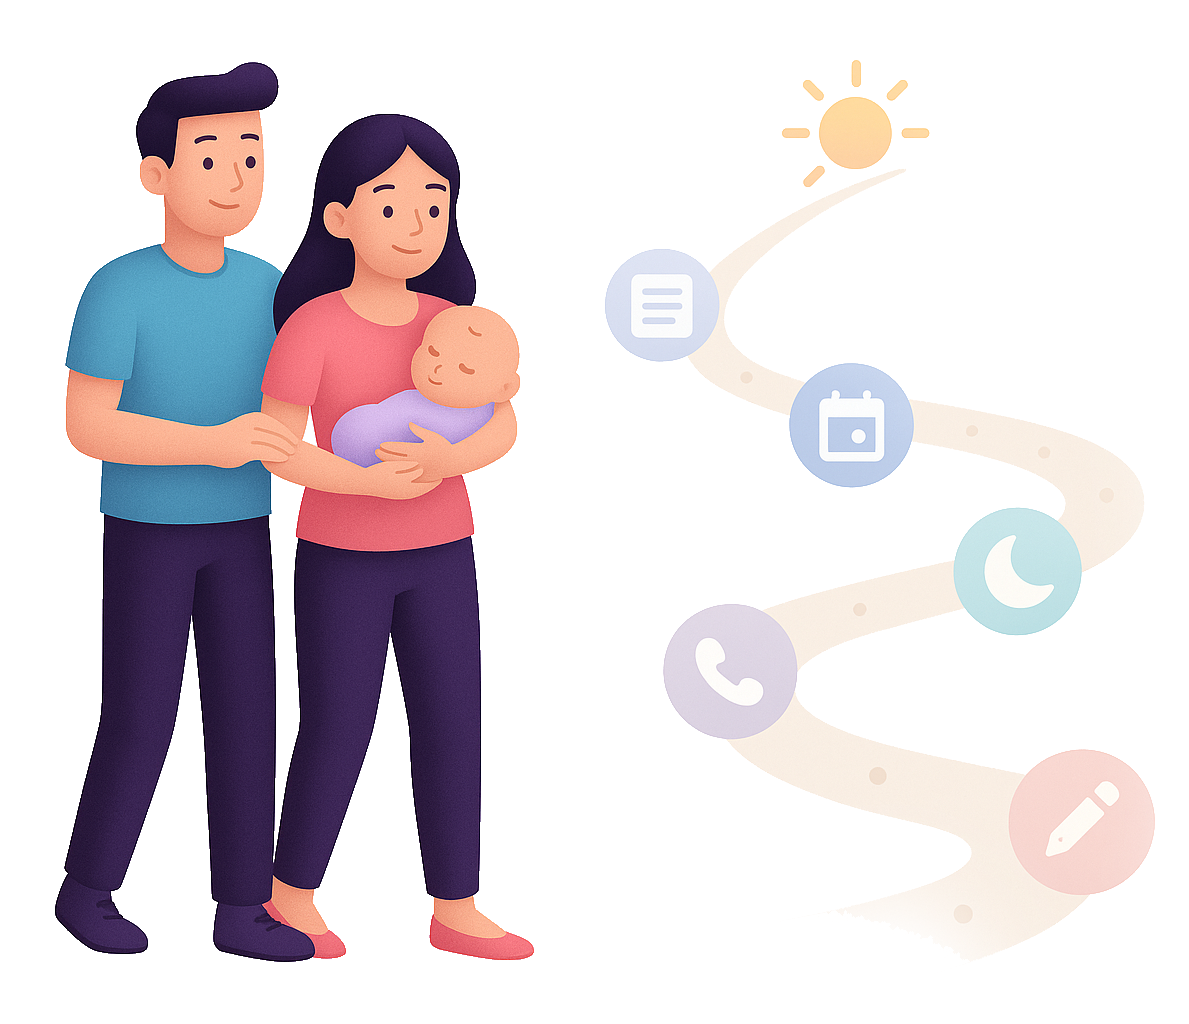
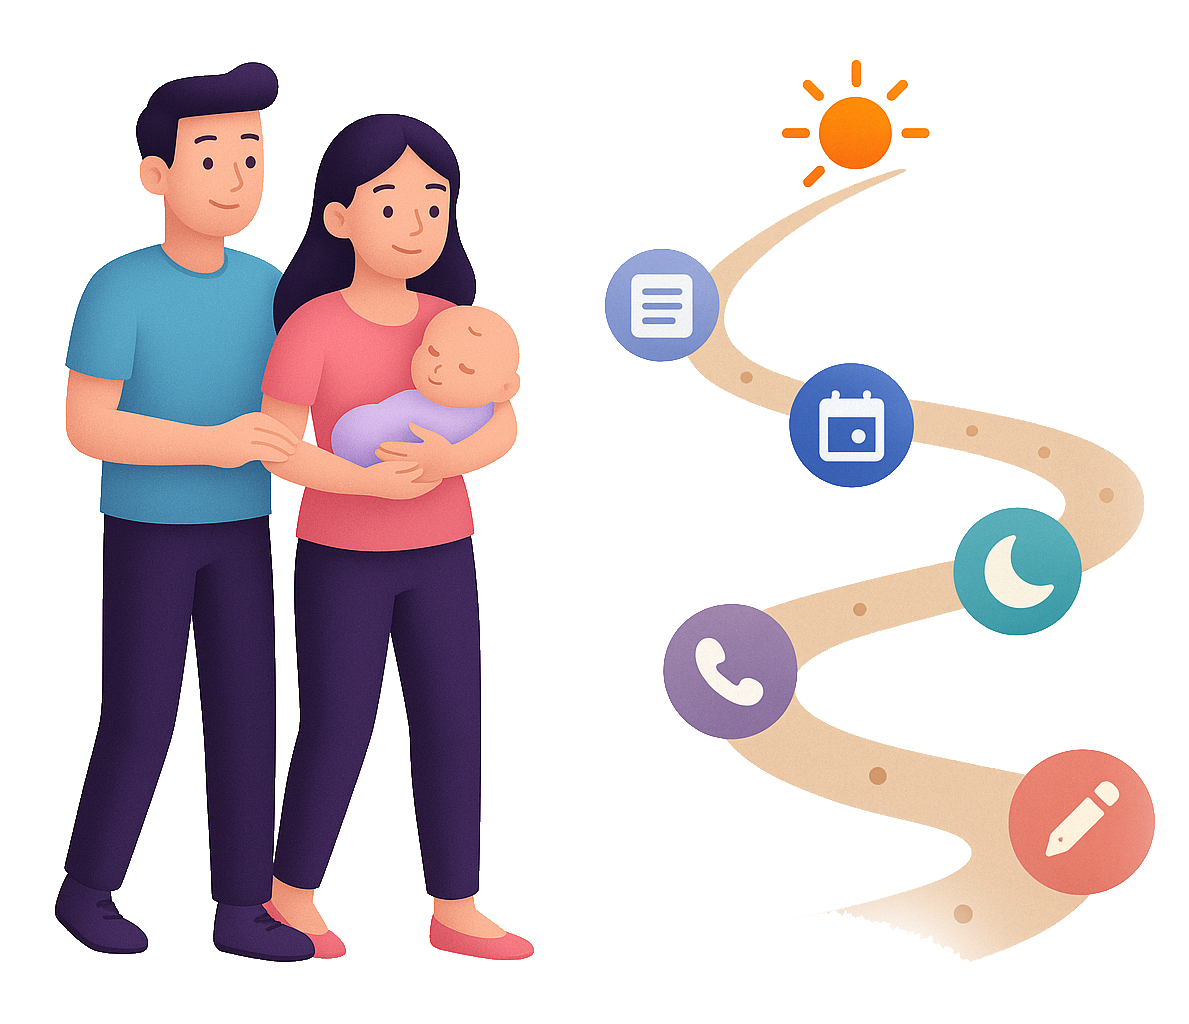
Página de detalle de servicios (VI)

Changed region(s): [[0.4979, 0.0625, 0.9958, 0.9375], [0.6535, 0.0625, 0.6846, 0.0938]]

diff --git a/src/components/blocks/footer/ViaLacteaFooter.tsx b/src/components/blocks/footer/ViaLacteaFooter.tsx
@@ -8,32 +8,16 @@ import CalendlyButton from "components/blocks/navbar/components/CalendlyButton";
 import TurnstileProtection, { validateTurnstileToken } from "components/common/TurnstileProtection";
 // CUSTOM DATA
 import { helps, learnMore } from "data/via-lactea-footer";
+import { ServiceItem } from "data/service-data";
 import { serviceList } from "data/service-data";
 
 // =================================================
-type Footer3Props = { hiddenNewsletter?: boolean };
+type Footer3Props = { hiddenNewsletter?: boolean; service?: ServiceItem };
 // =================================================
 
-export default function ViaLacteaFooter({ hiddenNewsletter }: Footer3Props) {
+export default function ViaLacteaFooter({ hiddenNewsletter, service }: Footer3Props) {
   const [submitting, setSubmitting] = useState(false);
   const [turnstileToken, setTurnstileToken] = useState<string | null>(null);
-
-  // common links section
-  const widget = (list: Link[], title: string) => {
-    return (
-      <div className="widget">
-        <h4 className="widget-title  mb-3">{title}</h4>
-        <ul className="list-unstyled text-reset mb-0">
-          {list.map(({ url, title, id }) => (
-            <li key={id}>
-              <NextLink href={url} title={title} />
-            </li>
-          ))}
-        </ul>
-      </div>
-    );
-  };
-
   const handleNewsletterSubmit = async (e: React.FormEvent) => {
     e.preventDefault();
     
@@ -98,13 +82,17 @@ export default function ViaLacteaFooter({ hiddenNewsletter }: Footer3Props) {
     }
   };
 
+  // Mapeo de color Tailwind
+  const colorMap: Record<string,string> = { purple:'grape', aqua:'aqua', green:'green', red:'red', blue:'blue', teal:'sky', yellow:'yellow', orange:'orange', violet:'violet', pink:'pink' };
+  const tailwindColor = service?.color ? (colorMap[service.color] || 'grape') : 'grape';
+
   return (
-    <footer className="bg-navbar pt-14 pb-8">
+    <footer className={`bg-white pt-14 pb-8`}>
       <div className="container pb-7">
         {!hiddenNewsletter && (
           <div
-            className="card image-wrapper bg-full bg-image bg-overlay bg-overlay-400 mb-13"
-            style={{ backgroundImage: "url(/img/photos/bg2.jpg)" }}>
+            className={`card image-wrapper mb-13 bg-${tailwindColor}`}
+          >
             <div className="card-body p-9 p-xl-11">
               <div className="row align-items-center gy-6">
                 <div className="col-lg-7">
@@ -133,15 +121,15 @@ export default function ViaLacteaFooter({ hiddenNewsletter }: Footer3Props) {
                             type="email"
                             id="newsletter-email"
                             placeholder="Email Address"
-                            className="required email form-control"
+                            className="required email form-control text-white placeholder-white"
                             required
                           />
-                          <label htmlFor="newsletter-email" className="position-absolute">
+                          <label htmlFor="newsletter-email" className="position-absolute text-white">
                             Correo Electrónico
                           </label>
                           <input
                             type="submit"
-                            className="btn btn-primary"
+                            className={`btn btn-soft-${tailwindColor}`}
                             value="Suscribirse"
                             disabled={submitting}
                           />
@@ -171,7 +159,8 @@ export default function ViaLacteaFooter({ hiddenNewsletter }: Footer3Props) {
               <CalendlyButton 
                 text="Te llamo"
                 icon="uil uil-whatsapp"
-                className="btn btn-primary rounded-pill"
+                className={`btn btn-${tailwindColor} rounded-pill`}
+                calendlyUrl={service?.calendlyUrl}
               />
             </div>
           </div>

diff --git a/src/components/blocks/process/ViaLacteaProcess.tsx b/src/components/blocks/process/ViaLacteaProcess.tsx
@@ -1,4 +1,4 @@
-import { getHighlightedServices } from "data/service-data";
+import { getHighlightedServices, ServiceItem } from "data/service-data";
 
 interface ProcessStep {
   id: number;
@@ -12,25 +12,29 @@ interface Process {
 }
 
 interface ViaLacteaProcessProps {
-  processData?: Process;
+  service: ServiceItem;
 }
 
-export default function ViaLacteaProcess({ processData }: ViaLacteaProcessProps = {}) {
-  // Si no se pasa un proceso específico, usamos el primer servicio destacado que tenga un proceso definido
-  let process = processData;
+export default function ViaLacteaProcess({ service }: ViaLacteaProcessProps) {
+  // Extraer proceso y color del servicio
+  let process = service.process;
+  let serviceColor = service.color;
   
+  // Si no existe proceso en el servicio, intentar obtener uno destacado
   if (!process) {
     const highlightedServices = getHighlightedServices();
-    const serviceWithProcess = highlightedServices.find(service => service.process);
-    
-    // Si no hay servicios destacados con proceso, no renderizamos la sección
-    if (!serviceWithProcess || !serviceWithProcess.process) return null;
-    
+    const serviceWithProcess = highlightedServices.find(s => s.process);
+    if (!serviceWithProcess?.process) return null;
     process = serviceWithProcess.process;
+    serviceColor = serviceWithProcess.color;
   }
 
+  // Map color key to Tailwind
+  const colorMap: Record<string,string> = { purple:'grape', aqua:'aqua', green:'green', red:'red', blue:'blue', teal:'sky', yellow:'yellow', orange:'orange', violet:'violet', pink:'pink' };
+  const tailwindColor = serviceColor ? (colorMap[serviceColor] || 'grape') : 'grape';
+
   return (
-    <section className="wrapper bg-soft-primary">
+    <section className={`wrapper bg-soft-${tailwindColor}`}>
       
       <figure>
         <img src="/img/photos/clouds.png" alt="Clouds" style={{ transform: 'scaleY(-1)' }} />
@@ -48,14 +52,14 @@ export default function ViaLacteaProcess({ processData }: ViaLacteaProcessProps 
           </div>
 
           <div className="col-lg-5">
-            <h3 className="fs-16 text-uppercase text-primary mb-3">¿Cómo Funciona?</h3>
+            <h3 className={`fs-16 text-uppercase text-${tailwindColor} mb-3`}>¿Cómo Funciona?</h3>
             <h3 className="display-4 mb-6">{process.title}</h3>
 
             <div className="row gy-4">
               {process.steps.map((step) => (
                 <div className="col-md-6" key={step.id}>
                   <h4>
-                    <span className="text-grape">{step.id}.</span> {step.title}
+                    <span className={`text-${tailwindColor}`}>{step.id}.</span> {step.title}
                   </h4>
                   <p className="mb-0">{step.description}</p>
                 </div>

diff --git a/src/components/blocks/navbar/via-lactea/ViaLacteaNavbar.tsx b/src/components/blocks/navbar/via-lactea/ViaLacteaNavbar.tsx
@@ -6,6 +6,7 @@ import clsx from "clsx";
 import useNestedDropdown from "hooks/useNestedDropdown";
 // -------- CUSTOM COMPONENTS -------- //
 import NextLink from "components/reuseable/links/NextLink";
+import { ServiceItem } from "data/service-data";
 // LOCAL CUSTOM COMPONENTS
 import Info from "../components/Info";
 import Search from "../components/search";
@@ -25,6 +26,7 @@ interface ViaLacteaNavbarProps {
   button?: ReactElement;
   navOtherClass?: string;
   whiteBackground?: boolean;
+  service?: ServiceItem;
 }
 // ===================================================================
 
@@ -38,7 +40,8 @@ export default function ViaLacteaNavbar({
   stickyBox = true,
   whiteBackground = false,
   navOtherClass = "navbar-other d-flex",
-  navClassName = "navbar navbar-expand-lg center-nav transparent navbar-light"
+  navClassName = "navbar navbar-expand-lg center-nav transparent navbar-light",
+  service,
 }: ViaLacteaNavbarProps) {
   useNestedDropdown();
   // sticky behavior removed
@@ -47,6 +50,10 @@ export default function ViaLacteaNavbar({
 
   // dynamically render the logo (no sticky)
   const logo = logoAlt ?? "via-lactea-logo";
+
+  // compute tailwind color from service
+  const colorMap: Record<string,string> = { purple:'grape', aqua:'aqua', green:'green', red:'red', blue:'blue', teal:'sky', yellow:'yellow', orange:'orange', violet:'violet', pink:'pink' };
+  const tailwindColor = service && service.color ? (colorMap[service.color] || 'grape') : 'grape';
 
   // generate navbar class based on white background prop
   const finalNavClassName = whiteBackground 

diff --git a/src/app/servicios/[slug]/page.tsx b/src/app/servicios/[slug]/page.tsx
@@ -55,7 +55,7 @@ export default function ServiceDetail({ params }: ServiceDetailParams) {
     <Fragment>
       {/* ========== header ========== */}
       <header className="wrapper bg-soft-transparent">
-        <ViaLacteaNavbar button={<CalendlyButton />} whiteBackground={true} />
+        <ViaLacteaNavbar button={<CalendlyButton />} whiteBackground={true} service={service} />
       </header>
 
       {/* ========== main content ========== */}
@@ -67,11 +67,11 @@ export default function ServiceDetail({ params }: ServiceDetailParams) {
         <ViaLacteaServiceFeatures service={service} />
         
         {/* ========== process section ========== */}
-        {service.process && <ViaLacteaProcess processData={service.process} />}
+        <ViaLacteaProcess service={service} />
       </main>
 
       {/* ========== footer ========== */}
-      <ViaLacteaFooter />
+      <ViaLacteaFooter service={service} />
     </Fragment>
   );
 } 

diff --git a/src/components/blocks/hero/ViaLacteaHeroService.tsx b/src/components/blocks/hero/ViaLacteaHeroService.tsx
@@ -68,7 +68,7 @@ export default function ViaLacteaHeroService({ service }: ViaLacteaHeroServicePr
                   </p>
 
                   <div style={slideInDownAnimate("1800ms")}>
-                    <h4 className="fs-16 text-uppercase text-muted mb-3 mt-7">¿Para quién es?</h4>
+                    <h4 className="fs-16 text-uppercase mb-3 mt-7">¿Para quién es?</h4>
                     <ul className="list-unstyled ps-0 mt-3">
                       {service.forWho.map((target, idx) => (
                         <li key={idx} className="d-flex align-items-start mb-2">
